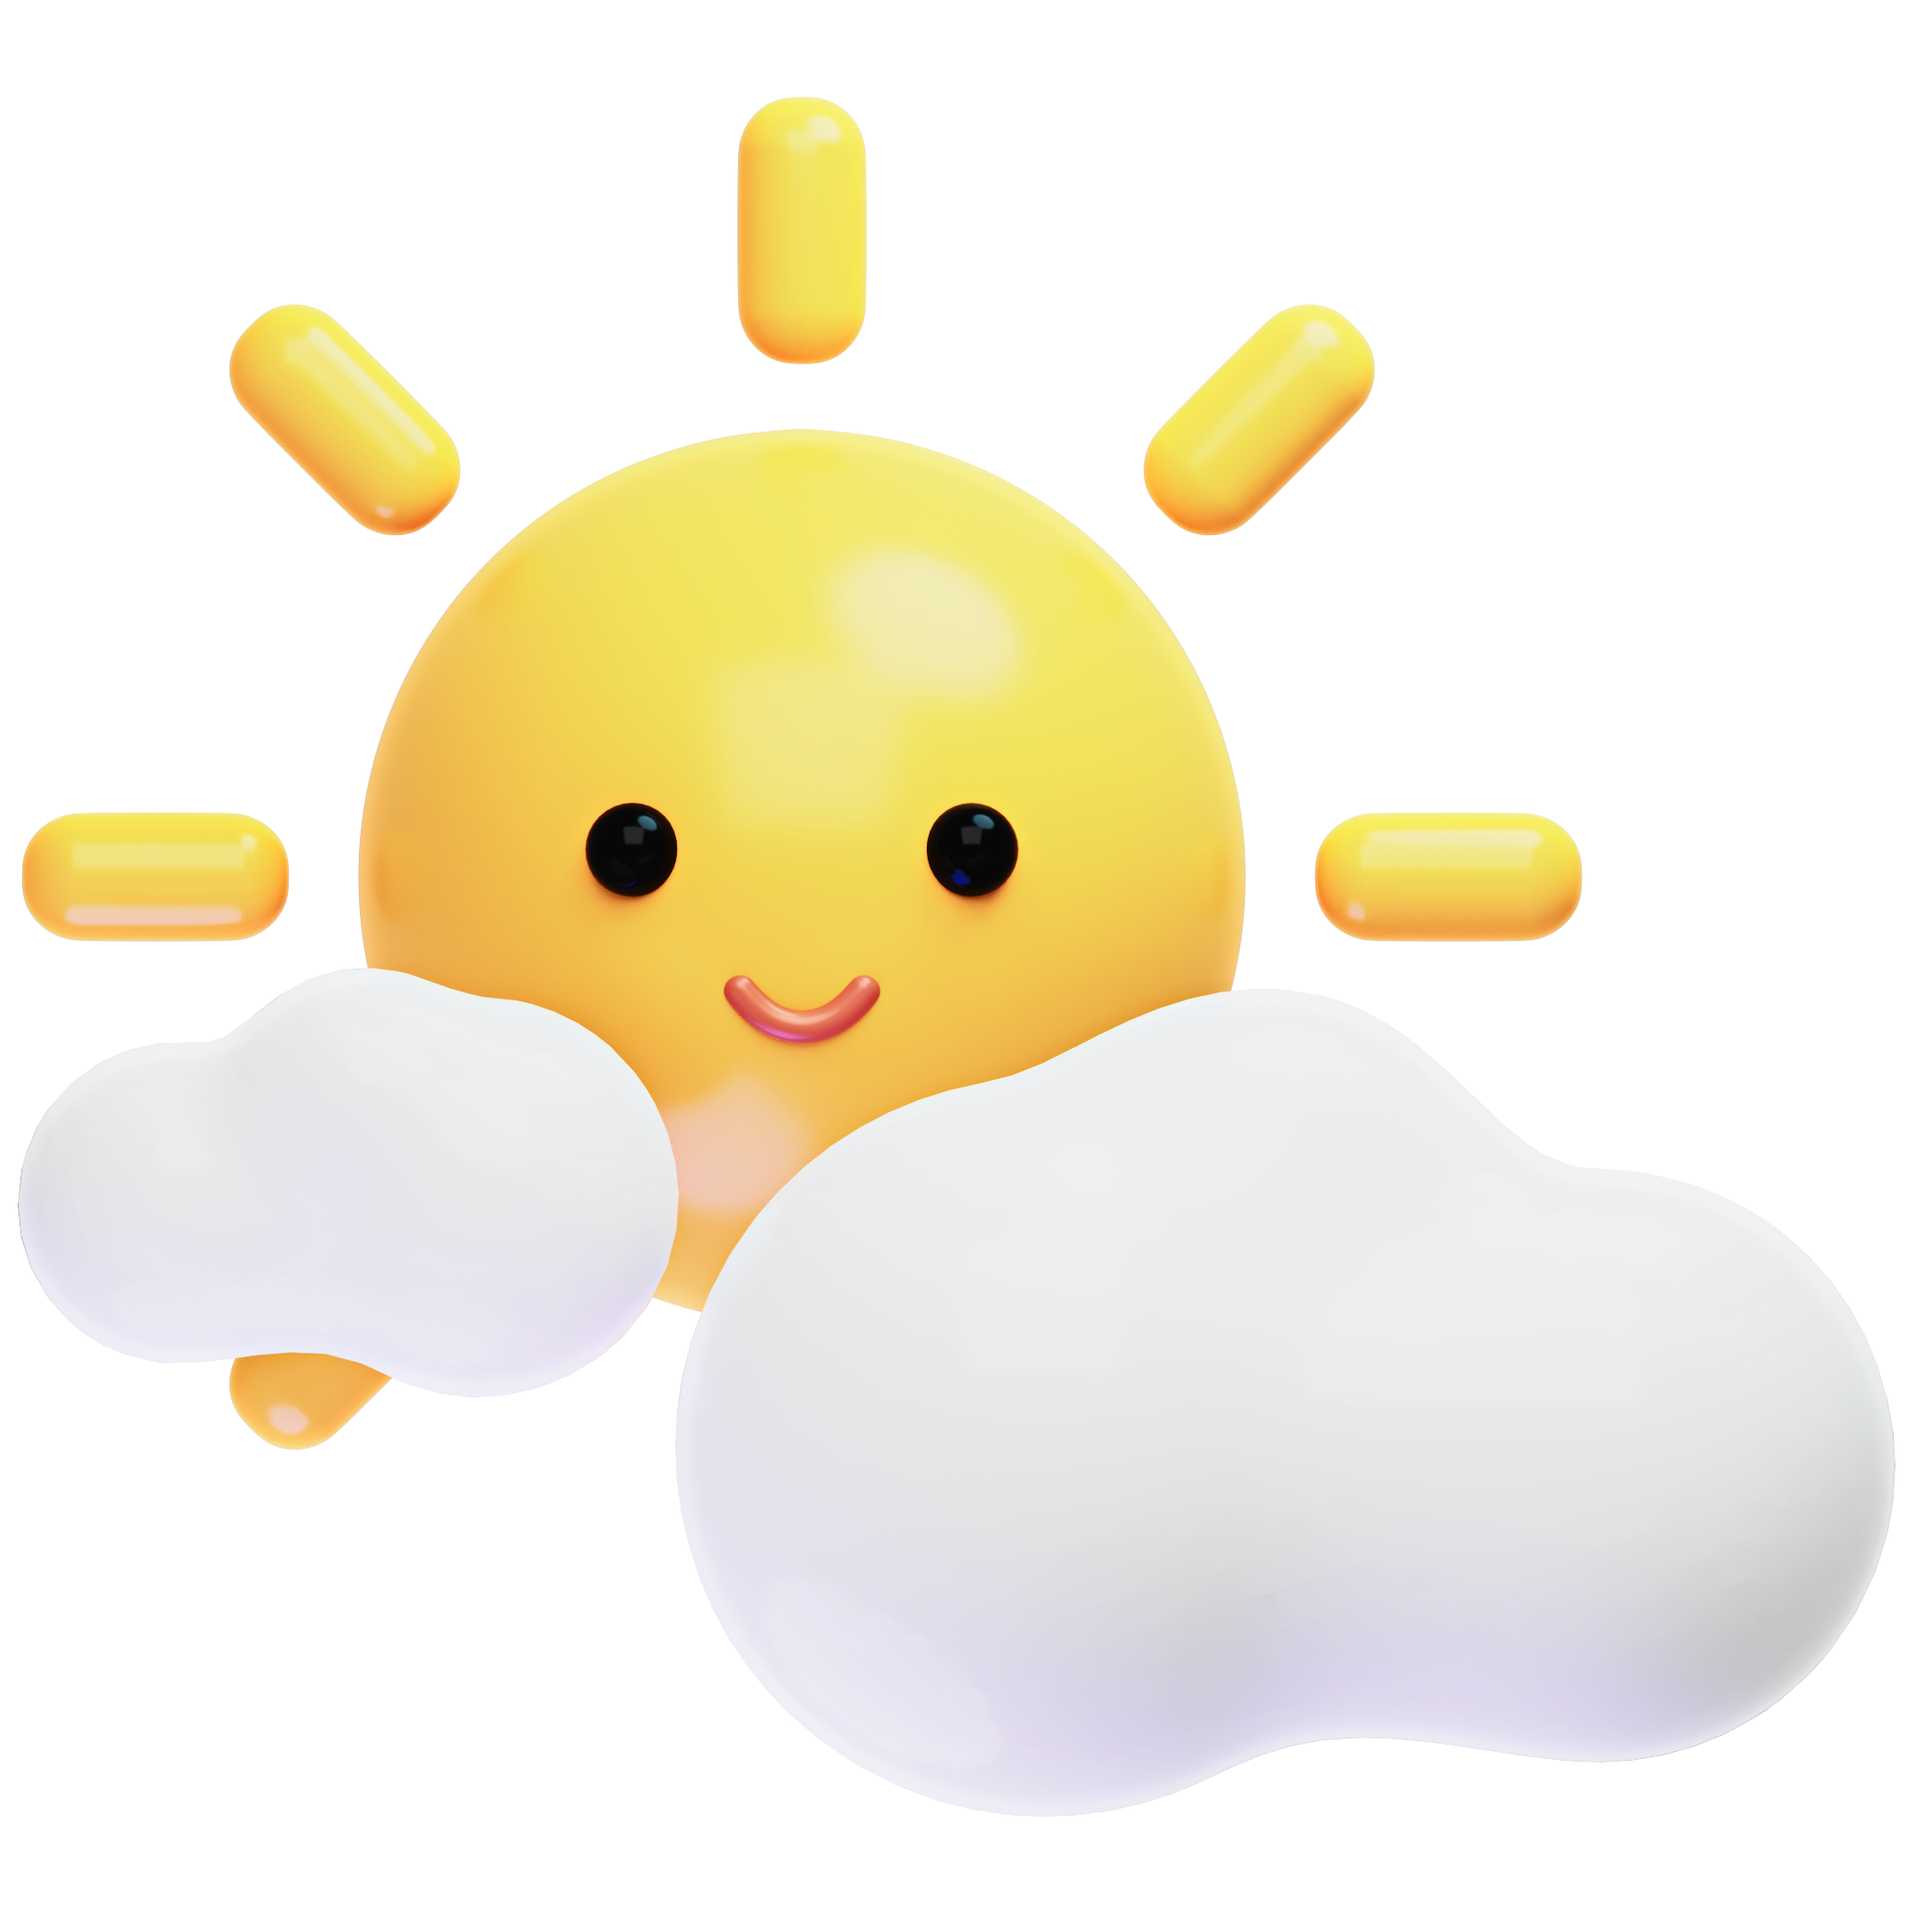
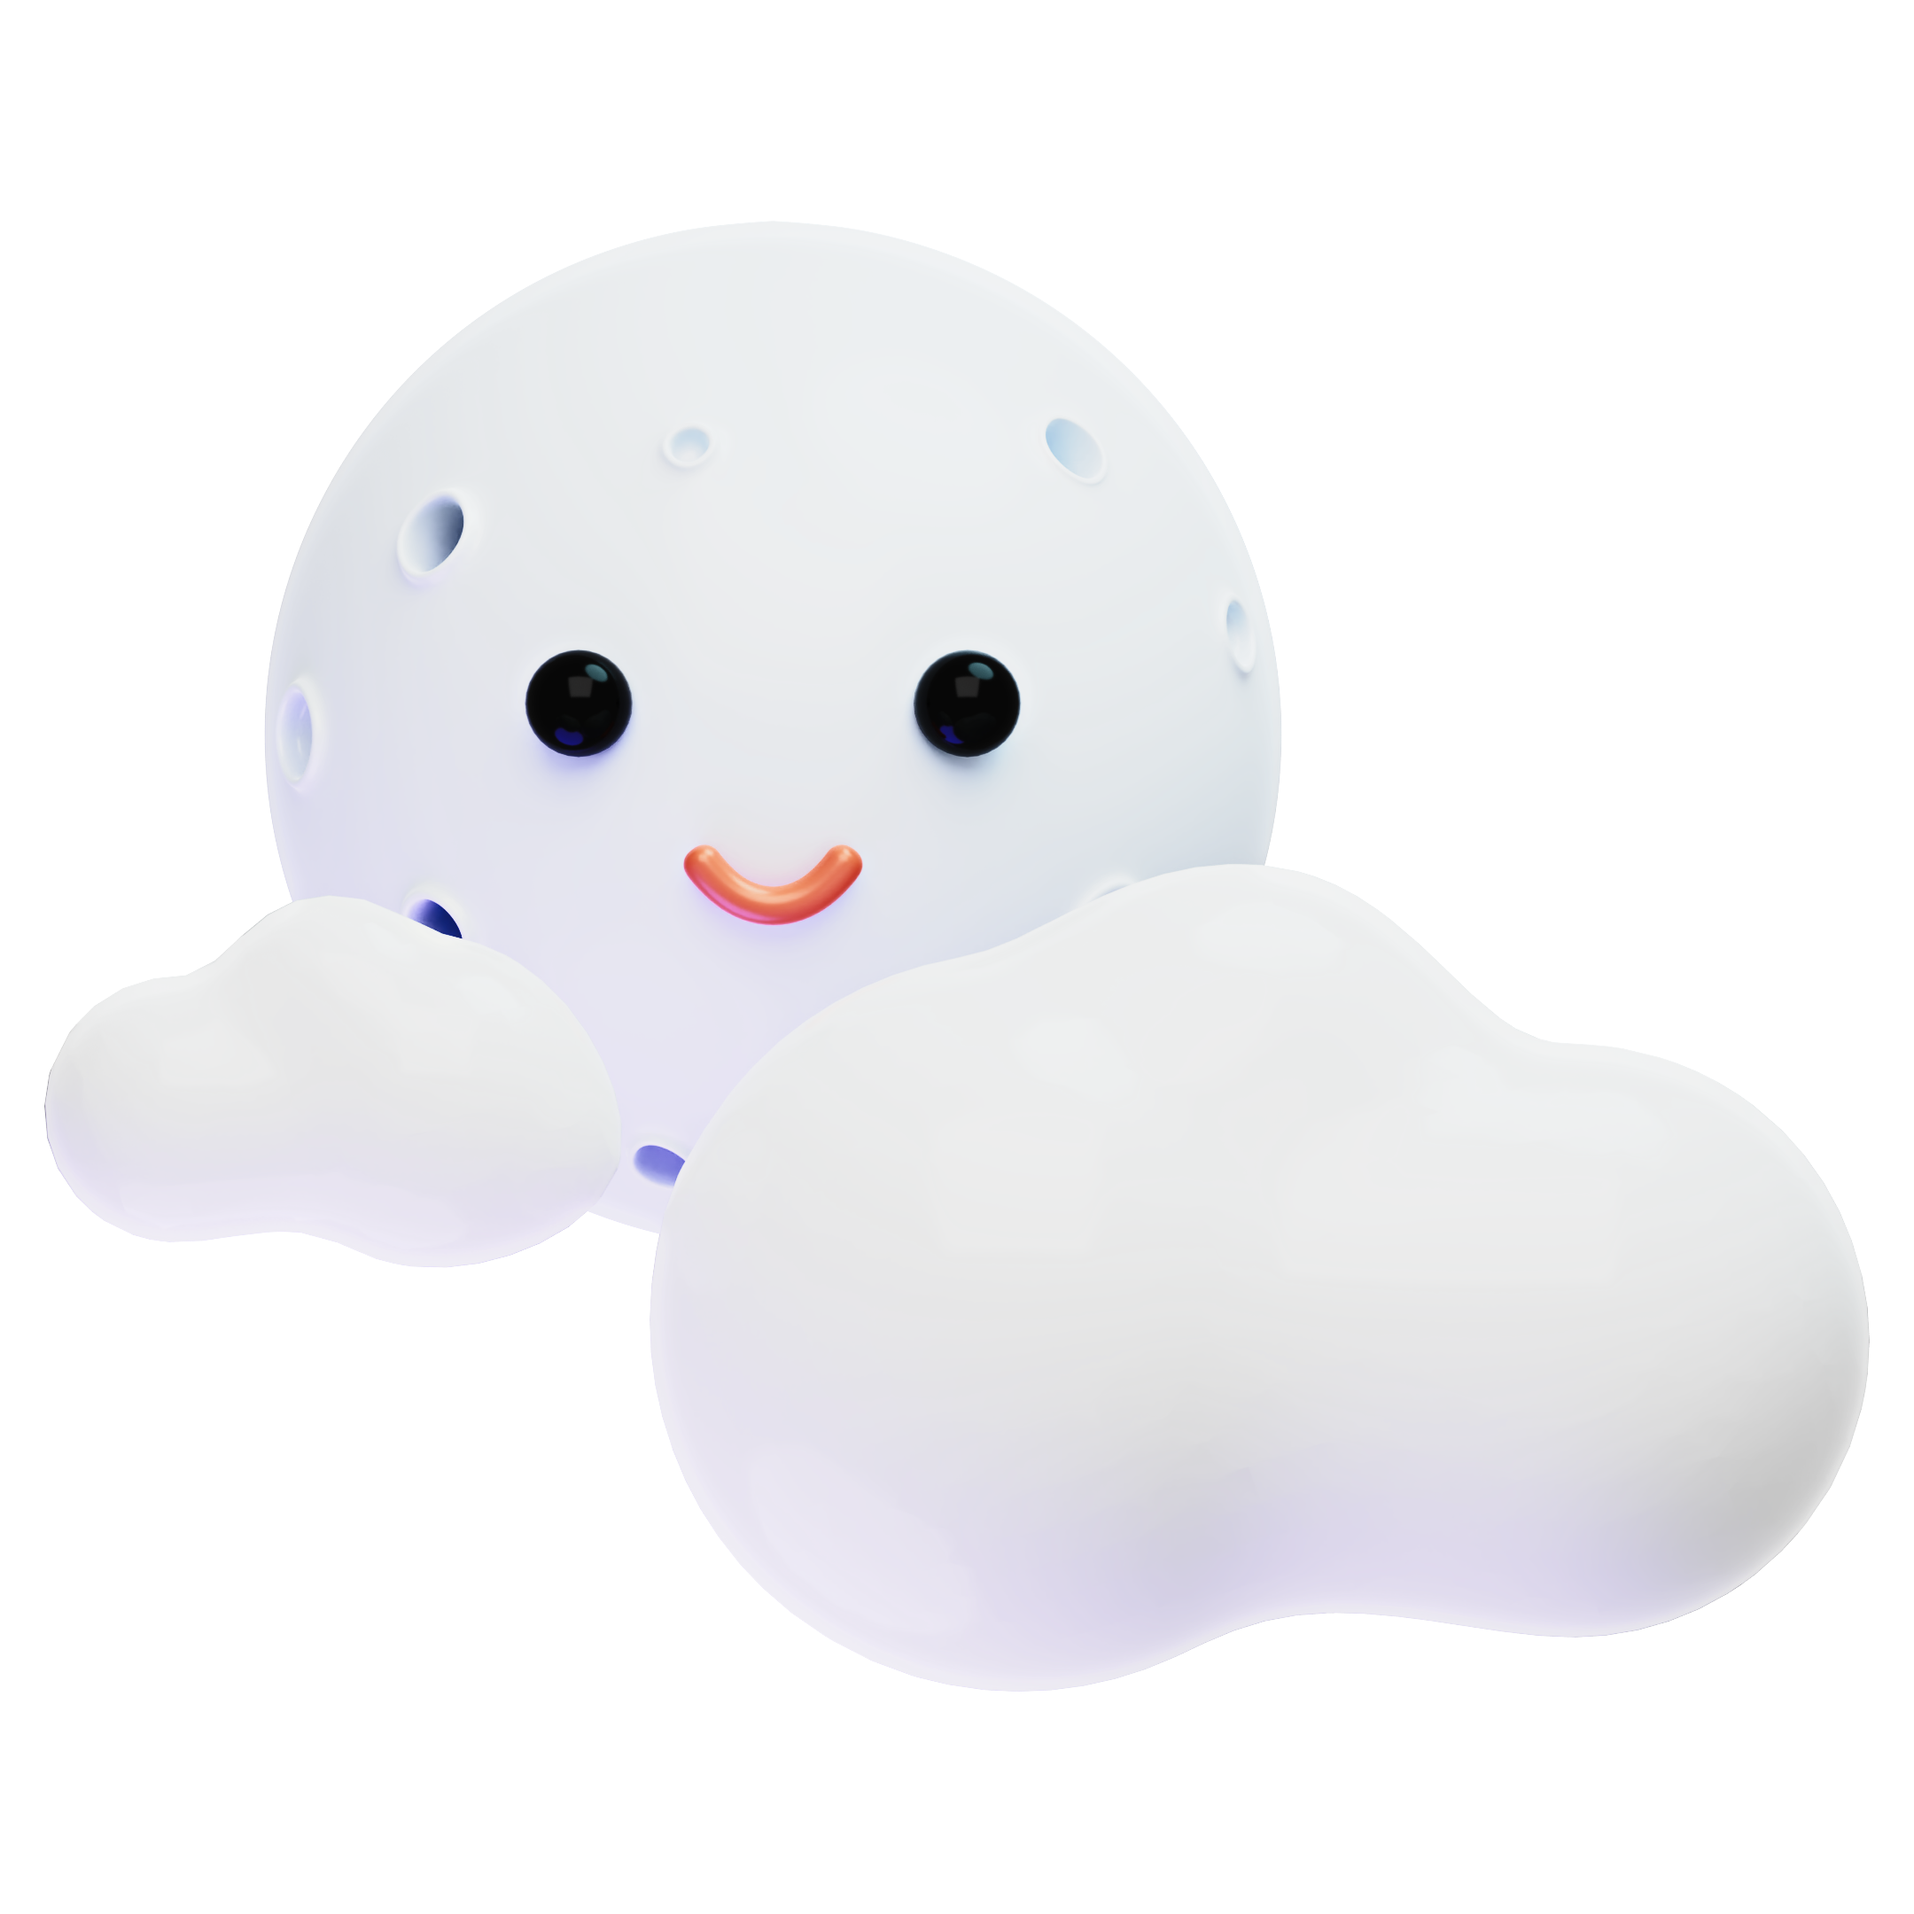
weather

Changed region(s): [[0.0, 0.031, 0.8375, 0.7755], [0.3722, 0.6204, 0.9926, 0.9616]]

diff --git a/src/app/page.js b/src/app/page.js
@@ -1,54 +1,72 @@
 "use client";
 import { useState, useEffect } from "react";
 import { WhiteSquare,Circle,CircleGray,Searchinput,Square,MidCircle,} from "./component";
-import { Icons } from "./icons"
-import { CiLocationOn } from "react-icons/ci";
+import { Card } from "./imagechange";
 const API_KEY = "a9bd50909a544a9c84172455241312";
- 
+
 export default function Home() {
   const [search, setSearch] = useState("");
   const [city, setCity] = useState("");
+  const [forecastDate, setForecastDate] = useState("");
   const [dayweather, setDayWeather] = useState({
     number: 0,
     condition: "",
   });
   const [nightweather, setNightWeather] = useState({
-    nothing: 0,
+    number: 0,
     condition: "",
   });
+ 
   const onChangeText = (e) => {
     setSearch(e.target.value);
   };
  
   const onPressEnter = (e) => {
-    if (e.code === "Enter") {
+    if (e.code === "Enter" && search.trim()) {
       setCity(search);
     }
   };
+ 
   useEffect(() => {
-    fetch(
-      `http://api.weatherapi.com/v1/forecast.json?key=${API_KEY}&q=${city}&days=1&aqi=no&alerts=no`
-    )
-      .then((response) => response.json())
-      .then((data) => {
-        setDayWeather({
-          number: data?.forecast?.forecastday[0]?.day?.maxtemp_c,
-          condition: data?.forecast?.forecastday[0]?.day?.condition?.text,
+    if (city) {
+      fetch(
+        `https://api.weatherapi.com/v1/forecast.json?key=${API_KEY}&q=${city}&days=1&aqi=no&alerts=no`
+      )
+        .then((response) => response.json())
+        .then((data) => {
+          const forecastDay = data.forecast?.forecastday[0];
+ 
+          const date = new Date(forecastDay.date);
+          const formattedDate = date.toLocaleDateString("en-US", {
+            year: "numeric",
+            month: "long",
+            day: "numeric",
+          });
+          setForecastDate(formattedDate);
+ 
+          setDayWeather({
+            number: Math.round(forecastDay.day.maxtemp_c),
+            condition: forecastDay.day.condition.text,
+          });
+          setNightWeather({
+            number: Math.round(forecastDay.day.mintemp_c),
+            condition: forecastDay.hour[23].condition.text,
+          });
+        })
+        .catch((error) => {
+          console.error("Error fetching weather data:", error);
         });
-        setNightWeather({
-          nothing: data?.forecast?.forecastday[0]?.day?.mintemp_c,
-          condition: data?.forecast?.forecastday[0]?.day?.condition.text,
-        });
-      });
+    }
   }, [city]);
+ 
   return (
     <div className="h-screen w-full flex justify-center overflow-hidden">
-      <div className="bg-stone-50 w-full h-[1200px] flex items-center flex-col-reverse justify-between pb-[200px] pt-[50px] rounded-l-[42px]">
+      <div className="bg-stone-50 w-full h-[1200px] flex items-center flex-col-reverse justify-between pb-[200px] pt-[50px] rounded-l-[50px] text-black">
         <Card
           value="day"
           city={city}
-          number={dayweather.number}
-          condition={dayweather.condition}
+          weather={dayweather}
+          forecastDate={forecastDate}
         />
         <Searchinput
           search={search}
@@ -56,8 +74,8 @@ export default function Home() {
           onPressEnter={onPressEnter}
         />
       </div>
+ 
       <div className="relative w-full h-[1200px] bg-[#0F141E] flex items-center flex-col-reverse justify-between pb-[200px]">
-        {/* circle */}
         <MidCircle size={160} top={420} left={-80} />
         <Circle size={340} top={330} left={-170} />
         <CircleGray size={340} top={330} left={-170} />
@@ -72,71 +90,16 @@ export default function Home() {
         <Card
           value="night"
           city={city}
-          nothing={nightweather.nothing}
-          condition={dayweather.condition}
+          weather={nightweather}
+          forecastDate={forecastDate}
         />
         <Square size={100} top={326} left={-0} />
         <Square size={100} top={574} left={-0} />
         <WhiteSquare size={40} top={390} left={-12} />
         <WhiteSquare size={40} top={566} left={-12} />
         <img src="leftlogo.png" className="absolute top-[450px] left-[-50px]" />
-        <img
-          src="rightlogo.png"
-          className="absolute top-[450px] left-[10px]"
-        />
-        <img />
+        <img src="rightlogo.png" className="absolute top-[450px] left-[10px]" />
       </div>
     </div>
   );
 }
- 
-const Card = ({ value, city, number, nothing, condition }) => {
-  const cardBackgroundDay = "bg-[#FFFFFF]";
-  const sun = "DaySun.png";
- 
-  const temperature = value === "day" ? number : nothing;
-  const zurag = value === "day" ? sun : "Moon.png";
-  const cardBg = value === "day" ? cardBackgroundDay : "bg-[#111827BF]";
-  const nightCardColors = "bg-[111827bf] bg-gradient-to-b from-[#1F2937] to-[#11182700] text-white shadow-[#111827]";
- 
-  const textStyle =
-    value === "day" ? "text-[#FF8E27] font-bold text-[24px]" : "text-[#777CCE] font-bold text-[24px]";
- 
-  const colors = value === "day" ? "bg-[#FFFFFFBF]" : nightCardColors;
-  const temperatureStyle =
-    value === "day" ? "text-[96px] text-transparent bg-clip-text bg-gradient-to-b from-[#111827] to-[#6b7280] font-extrabold" : "text-[96px] text-transparent bg-clip-text bg-gradient-to-b from-[#F9FAFB] to-[#F9FAFB00] font-extrabold";
- 
-  return (
-    <div
-      className={`w-[414px] h-[832px] rounded-[48px] justify-center ${cardBg} z-10  overflow-hidden`}
-    >
-      <div
-        className={`w-[398px] h-[504px] rounded-[42px] mt-[10px] ml-[8px] ${colors}`}
-      >
-        <div className="flex justify-center">
-          <div className="w-[290px] mt-[64px] ml-[48px]">
-            <p className="tex ">September 10, 2024</p>
-            <h2 className="text-4xl font-extrabold">{city}</h2>
-          </div>
-          <div className="mt-[93px] w-[92px]">
-            <CiLocationOn className="text-3xl -mt-9"/>
-          </div>
-        </div>
-        <div className="flex justify-center items-center mt-[30px]">
-          <img className="h-[200px] w-[200px]" src={zurag} alt={value} />
-        </div>
-        <div className=" ml-20">
-          <p className={temperatureStyle}>{temperature}°</p>
-        </div>
-      </div>
-      <div className="mt-[30px] ml-[50px]">
-        <p className={textStyle}>{condition}</p>
-      </div>
-      <div className="flex justify-center items-center mt-40 gap-20">
-        < Icons value={value} />
-      </div>
-    </div>
-  );
-};
- 
- 

diff --git a/src/app/Imagechange.jsx b/src/app/Imagechange.jsx
@@ -1,0 +1,87 @@
+import { Icons } from "./icons"
+import { useState, useEffect } from "react"
+export function Card({ value, city, weather, forecastDate }) {
+    const isDay = value === "day";
+     const [dayStatus, setDayStatus] = useState("/daySun.png")
+      const [nightStatus, setNightStatus] = useState("/Moon.png")
+      const weatherStatus = isDay ? dayStatus : nightStatus;
+      const { number, condition } = weather;
+      
+      useEffect(() => {
+        if(isDay){
+          if(condition.includes("Sunny")){
+            setDayStatus("/daySun.png")
+          }else if(condition.includes("Overcast")){
+            setDayStatus("/Clouds.png")
+          }else if(condition.includes("snow")){
+            setDayStatus("/Snow.png")
+          }else if(condition.includes("rain")){
+            setDayStatus("/Rain.png")
+          }else if(condition.includes("thunder")){
+            setDayStatus("/ThunderDay.png")
+          }else if(condition.includes("wind")){
+            setDayStatus("/Wind.png")
+          }else if(condition.includes("Mist")){
+            setDayStatus("/Clouds.png")
+          }else if(condition.includes("Cloudy")){
+            setDayStatus("/Clouds.png")
+          }
+        }else{
+          if(condition.includes("Clear")){
+            setNightStatus("/Moon.png")
+          }else if(condition.includes("Overcast")){
+            setNightStatus("/NightClouds.png")
+          }else if(condition.includes("snow")){
+            setNightStatus("/NightSnow.png")
+          }else if(condition.includes("rain")){
+            setNightStatus("/NightRain.png")
+          }else if(condition.includes("thunder")){
+            setNightStatus("/ThunderNight.png")
+          }else if(condition.includes("wind")){
+            setNightStatus("/NightWind.png")
+          }else if(condition.includes("Cloudy")){
+            setNightStatus("/NightClouds.png")
+          }
+        }
+      },[city, condition])
+  
+    const temperatureStyle = isDay
+      ? "text-[144px] text-transparent bg-clip-text bg-gradient-to-b from-[#111827] to-[#6b7280] font-3xl"
+      : "text-[144px] text-transparent bg-clip-text bg-gradient-to-b from-[#F9FAFB] to-[#F9FAFB00] font-3xl";
+  
+    const conditionStyle = isDay
+      ? "text-[#FF8E27] font-2xl"
+      : "text-[#777CCE] font-2xl";
+  
+    const cardBg = isDay ? "bg-[#FFFFFFbf]" : "bg-[#111827BF]";
+    const nightCardColors =
+      "bg-[111827bf] bg-gradient-to-b from-[#1F2937] to-[#11182700] text-white shadow-[#111827]";
+    const colors = isDay ? "bg-[#FFFFFF]" : nightCardColors;
+  
+    return (
+      <div
+        className={`w-[414px] h-[832px] rounded-[48px] flex justify-center ${cardBg} z-30 overflow-hidden`}
+      >
+        <div className={`w-[398px] h-[504px] rounded-[42px] ${colors}`}>
+          <div className="flex justify-center">
+            <div className="w-[290px] mt-[64px] ml-[48px]">
+              <p className="text-md">{forecastDate || "Date Unavailable"}</p>
+              <h2 className="text-4xl font-bold">{city || "Unknown"}</h2>
+            </div>
+          </div>
+          <div className="flex justify-center items-center mt-[30px]">
+            <img className="h-[200px] w-[200px]" src={weatherStatus} alt={value} />
+          </div>
+          <div className="flex justify-center items-center mr-32 mt-[30px]">
+            <p className={temperatureStyle}>{number || ""}°</p>
+          </div>
+          <div className="mt-[30px] ml-[50px]">
+            <p className={conditionStyle}>{condition || "No Data"}</p>
+          </div>
+          <div className="flex justify-center items-center mt-24 gap-20">
+            <Icons value={value} />
+          </div>
+        </div>
+      </div>
+    );
+  }
